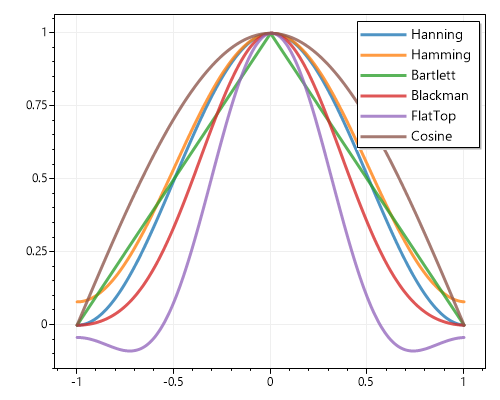
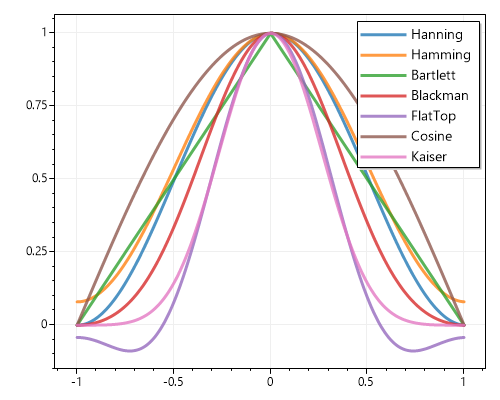
Window: Add Kaiser window
resolves #35

diff --git a/src/FftSharp.Tests/Window.cs b/src/FftSharp.Tests/Window.cs
@@ -22,6 +22,7 @@ namespace FftSharp.Tests
             //plt.PlotScatter(xs, FftSharp.Window.BlackmanHarris(xs.Length), label: "BlackmanHarris");
             plt.PlotScatter(xs, FftSharp.Window.FlatTop(xs.Length), label: "FlatTop");
             plt.PlotScatter(xs, FftSharp.Window.Cosine(xs.Length), label: "Cosine");
+            plt.PlotScatter(xs, FftSharp.Window.Kaiser(xs.Length, 15), label: "Kaiser");
 
             // customize line styles post-hoc
             foreach (var p in plt.GetPlottables())
@@ -49,6 +50,70 @@ namespace FftSharp.Tests
                 Console.WriteLine(String.Join(", ", windowed.Select(x => $"{x:N3}").ToArray()));
                 Console.WriteLine();
                 Assert.AreEqual(5, windowed.Length);
+            }
+        }
+
+        [TestCase(0, 1)]
+        [TestCase(1, 1)]
+        [TestCase(2, 2)]
+        [TestCase(3, 6)]
+        [TestCase(9, 362880)]
+        public void Test_Factorial_MatchesKnown(int k, int factorial)
+        {
+            Assert.AreEqual(factorial, FftSharp.Window.Factorial(k));
+        }
+
+        [Test]
+        public void Test_Bessel_MatchesPython()
+        {
+            /* expected values calculated with python:
+                >>> import numpy as np
+                >>> np.i0(np.arange(20))
+            */
+
+            double[] expected = {
+                1.00000000e+00, 1.26606588e+00, 2.27958530e+00, 4.88079259e+00,
+                1.13019220e+01, 2.72398718e+01, 6.72344070e+01, 1.68593909e+02,
+                4.27564116e+02, 1.09358835e+03, 2.81571663e+03, 7.28848934e+03,
+                1.89489253e+04, 4.94444896e+04, 1.29418563e+05, 3.39649373e+05,
+                8.93446228e+05, 2.35497022e+06, 6.21841242e+06, 1.64461904e+07,
+             };
+
+            double[] actual = FftSharp.Window.BesselZero(expected.Length);
+
+            for (int i = 0; i < expected.Length; i++)
+            {
+                double allowableError = .00001 * expected[i];
+                Assert.AreEqual(expected[i], actual[i], allowableError);
+            }
+        }
+
+        [Test]
+        public void Test_Kaiser_MatchesPython()
+        {
+            /* expected values calculated with python:
+                >>> import numpy as np
+                >>> np.kaiser(50, 14)
+            */
+            double[] expected = {
+                7.72686684e-06, 8.15094846e-05, 3.26000767e-04, 9.42588751e-04, 2.26624847e-03, 
+                4.80567914e-03, 9.27621459e-03, 1.66164301e-02, 2.79789657e-02, 4.46873500e-02, 
+                6.81537432e-02, 9.97574012e-02, 1.40689805e-01, 1.91778970e-01, 2.53311387e-01, 
+                3.24874218e-01, 4.05241756e-01, 4.92328143e-01, 5.83222700e-01, 6.74315433e-01, 
+                7.61509399e-01, 8.40504954e-01, 9.07130390e-01, 9.57685605e-01, 9.89261639e-01, 
+                1.00000000e+00, 9.89261639e-01, 9.57685605e-01, 9.07130390e-01, 8.40504954e-01, 
+                7.61509399e-01, 6.74315433e-01, 5.83222700e-01, 4.92328143e-01, 4.05241756e-01, 
+                3.24874218e-01, 2.53311387e-01, 1.91778970e-01, 1.40689805e-01, 9.97574012e-02, 
+                6.81537432e-02, 4.46873500e-02, 2.79789657e-02, 1.66164301e-02, 9.27621459e-03, 
+                4.80567914e-03, 2.26624847e-03, 9.42588751e-04, 3.26000767e-04, 8.15094846e-05, 
+            };
+
+            double[] actual = FftSharp.Window.Kaiser(51, 14);
+
+            for (int i = 0; i < expected.Length; i++)
+            {
+                double allowableError = .00001 * expected[i];
+                Assert.AreEqual(expected[i], actual[i], allowableError);
             }
         }
     }

diff --git a/src/FftSharp/Window.cs b/src/FftSharp/Window.cs
@@ -138,6 +138,64 @@ namespace FftSharp
             return window;
         }
 
+        public static int Factorial(int k)
+        {
+            int result = 1;
+
+            for (int i = 2; i <= k; i++)
+                result *= i;
+
+            return result;
+        }
+
+        public static double[] BesselZero(int pointCount)
+        {
+            double[] window = new double[pointCount];
+
+            for (int i = 0; i < pointCount; i++)
+                window[i] = I0(i);
+
+            return window;
+        }
+
+        public static double I0(double x)
+        {
+            // Derived from code workby oygx210/navguide:
+            // https://github.com/oygx210/navguide/blob/master/src/common/bessel.c
+
+            double ax = Math.Abs(x);
+            if (ax < 3.75)
+            {
+                double y = Math.Pow(x / 3.75, 2);
+                double[] m = { 3.5156229, 3.0899424, 1.2067492, 0.2659732, 0.360768e-1, 0.45813e-2 };
+                return 1.0 + y * (m[0] + y * (m[1] + y * (m[2] + y * (m[3] + y * (m[4] + y * m[5])))));
+            }
+            else
+            {
+                double y = 3.75 / ax;
+                double[] m = { 0.39894228, 0.1328592e-1, 0.225319e-2, -0.157565e-2, 0.916281e-2, -0.2057706e-1, 0.2635537e-1, -0.1647633e-1, 0.392377e-2 };
+                return (Math.Exp(ax) / Math.Sqrt(ax)) * (m[0] + y * (m[1] + y * (m[2] + y * (m[3] + y * (m[4] + y * (m[5] + y * (m[6] + y * (m[7] + y * m[8]))))))));
+            }
+        }
+
+        public static double[] Kaiser(int pointCount, double beta)
+        {
+            // derived from python/numpy:
+            // https://github.com/numpy/numpy/blob/v1.21.0/numpy/lib/function_base.py#L3267-L3392
+
+            int M = pointCount;
+            double alpha = (M - 1) / 2.0;
+
+            double[] window = new double[pointCount];
+
+            for (int n = 0; n < pointCount; n++)
+            {
+                window[n] = I0(beta * Math.Sqrt(1 - (Math.Pow((n - alpha) / alpha, 2)))) / I0(beta);
+            }
+
+            return window;
+        }
+
         public static string[] GetWindowNames()
         {
             return typeof(Window)

diff --git a/dev/python/bessel.py b/dev/python/bessel.py
@@ -1,0 +1,10 @@
+import numpy as np
+xs = np.arange(20)
+print(xs)
+print(np.i0(xs))
+
+import matplotlib.pyplot as plt
+window = np.kaiser(50, 14)
+print(window)
+plt.plot(window)
+plt.show()
